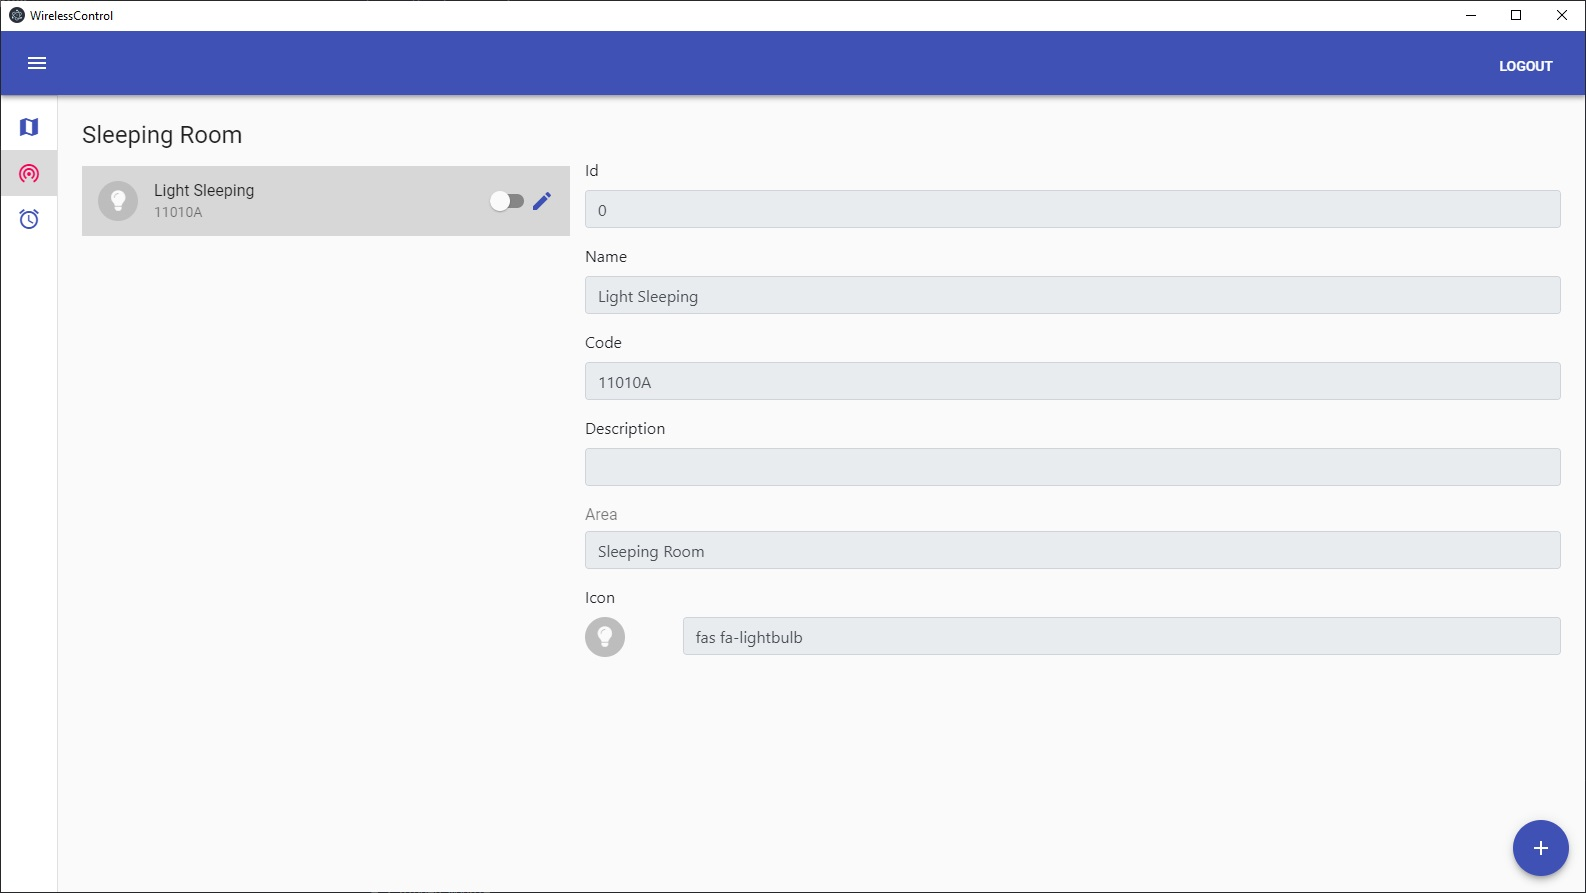
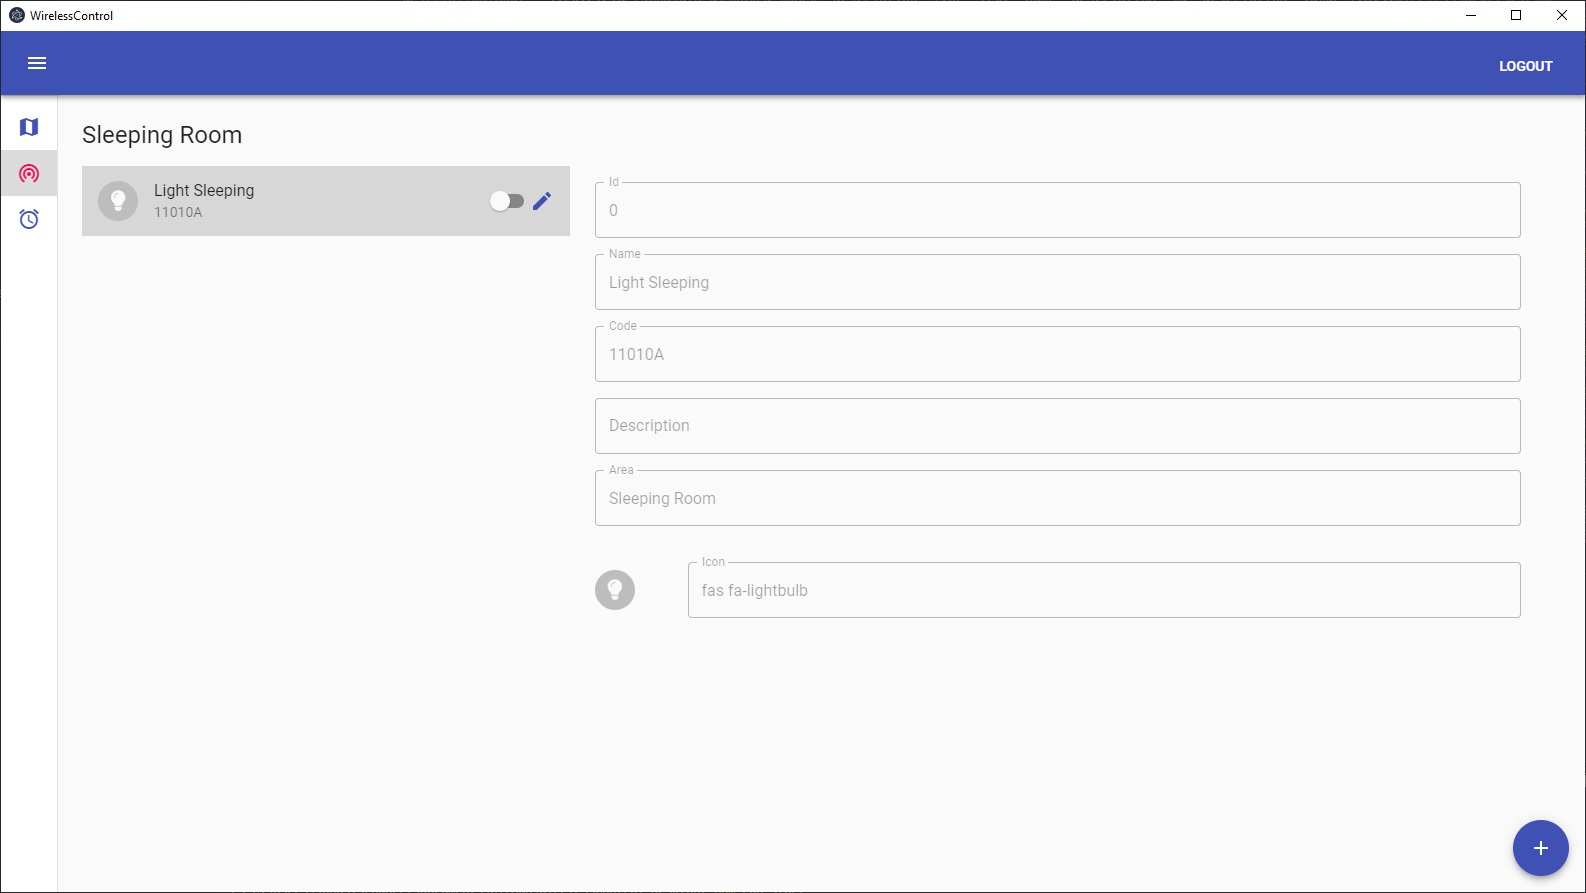
fixes lint errors for wireless sockets, fixes layout, updates screenshots

diff --git a/src/components/WirelessSockets/WirelessSockets.tsx b/src/components/WirelessSockets/WirelessSockets.tsx
@@ -79,18 +79,29 @@ class WirelessSockets extends React.Component<IWirelessSocketsProps, any> {
 
             if ((this.state.wirelessSocketInEdit !== null && this.wirelessSocketSelected.id === this.state.wirelessSocketInEdit.id) && this.wirelessSocketSelected.deletable === 1) {
                 if (!this.validateName()) {
-                    nameInput = <TextField error fullWidth label="Name" type="text" name="name" id="name" placeholder="Enter a name" onChange={this.handleChange} value={this.state.wirelessSocketInEdit.name} variant="outlined" />;
+                    nameInput = <TextField
+                        error fullWidth label="Name" type="text" name="name" id="name" placeholder="Enter a name" onChange={this.handleChange} value={this.state.wirelessSocketInEdit.name} variant="outlined"
+                    />;
                 } else {
-                    nameInput = <TextField fullWidth label="Name" type="text" name="name" id="name" placeholder="Enter a name" onChange={this.handleChange} value={this.state.wirelessSocketInEdit.name} variant="outlined" />;
+                    nameInput = <TextField
+                        fullWidth label="Name" type="text" name="name" id="name" placeholder="Enter a name" onChange={this.handleChange} value={this.state.wirelessSocketInEdit.name} variant="outlined"
+                    />;
                 }
 
                 if (!this.validateCode()) {
-                    codeInput = <TextField error fullWidth label="Code" type="text" name="code" id="code" placeholder="Enter the code" onChange={this.handleChange} value={this.state.wirelessSocketInEdit.code} variant="outlined" />;
+                    codeInput = <TextField
+                        error fullWidth label="Code" type="text" name="code" id="code" placeholder="Enter the code" onChange={this.handleChange} value={this.state.wirelessSocketInEdit.code} variant="outlined"
+                    />;
                 } else {
-                    codeInput = <TextField fullWidth label="Code" type="text" name="code" id="code" placeholder="Enter the code" onChange={this.handleChange} value={this.state.wirelessSocketInEdit.code} variant="outlined" />;
+                    codeInput = <TextField
+                        fullWidth label="Code" type="text" name="code" id="code" placeholder="Enter the code" onChange={this.handleChange} value={this.state.wirelessSocketInEdit.code} variant="outlined"
+                    />;
                 }
 
-                descriptionInput = <TextField fullWidth label="Description" type="text" name="description" id="description" placeholder="Enter a description" onChange={this.handleChange} value={this.state.wirelessSocketInEdit.description} variant="outlined" />;
+                descriptionInput = <TextField
+                    fullWidth label="Description" type="text" name="description" id="description" placeholder="Enter a description" onChange={this.handleChange}
+                    value={this.state.wirelessSocketInEdit.description} variant="outlined"
+                />;
 
                 if (!this.validateArea()) {
                     areaSelect = <Select
@@ -166,19 +177,19 @@ class WirelessSockets extends React.Component<IWirelessSocketsProps, any> {
                         <div className={this.props.classes.root}>
                             <FormControl fullWidth onSubmit={this.handleSubmit} className={this.props.classes.formControl}>
                                 <FormGroup>
-                                    <FormControlLabel label="" control={idInput} />
+                                    <FormControlLabel label="" control={<div className="wc-full-width wc-margin-bottom-1-rem">{idInput}</div>} />
                                 </FormGroup>
                                 <FormGroup>
-                                    <FormControlLabel label="" control={nameInput} />
+                                    <FormControlLabel label="" control={<div className="wc-full-width wc-margin-bottom-1-rem">{nameInput}</div>} />
                                 </FormGroup>
                                 <FormGroup>
-                                    <FormControlLabel label="" control={codeInput} />
+                                    <FormControlLabel label="" control={<div className="wc-full-width wc-margin-bottom-1-rem">{codeInput}</div>} />
                                 </FormGroup>
                                 <FormGroup>
-                                    <FormControlLabel label="" control={descriptionInput} />
+                                    <FormControlLabel label="" control={<div className="wc-full-width wc-margin-bottom-1-rem">{descriptionInput}</div>} />
                                 </FormGroup>
                                 <FormGroup>
-                                    <FormControlLabel label="" control={areaSelect} />
+                                    <FormControlLabel label="" control={<div className="wc-full-width wc-margin-bottom-1-rem">{areaSelect}</div>} />
                                 </FormGroup>
                                 <FormGroup>
                                     <FormControlLabel label="" control={<div className="wc-full-width">{iconPreview}{iconInput}</div>} />

diff --git a/src/components/WirelessSockets/WirelessSockets.css b/src/components/WirelessSockets/WirelessSockets.css
@@ -1,8 +1,9 @@
 .wireless-socket-icon-preview {
-  float: left;
+    float: left;
+    top: .5rem;
 }
 
 .wireless-socket-icon-input {
-  float: right;
-  width: 90% !important;
+    float: right;
+    width: 90% !important;
 }

diff --git a/styles/main.scss b/styles/main.scss
@@ -40,3 +40,7 @@
 .wc-full-width {
     width: 100%;
 }
+
+.wc-margin-bottom-1-rem {
+    margin-bottom: 1rem;
+}
